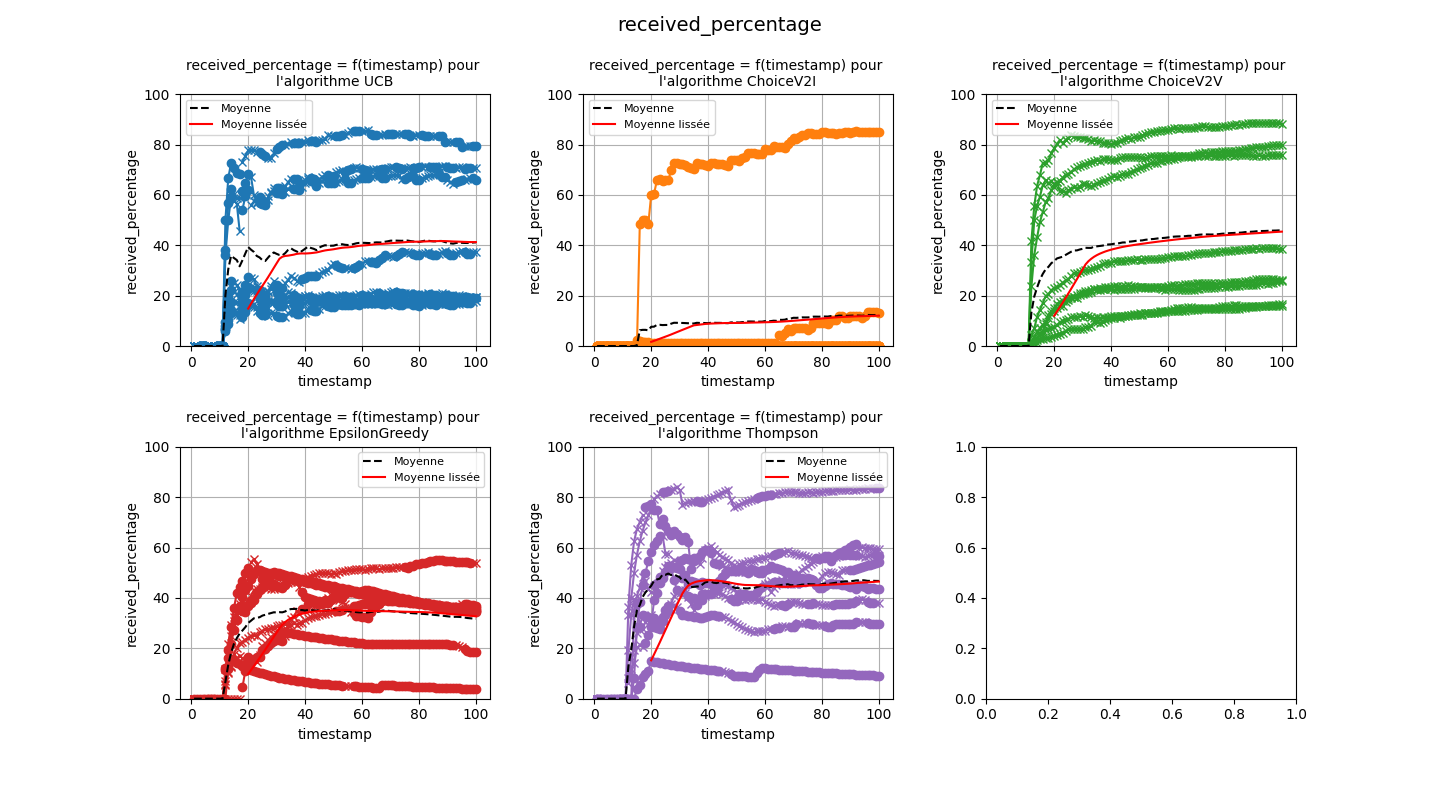
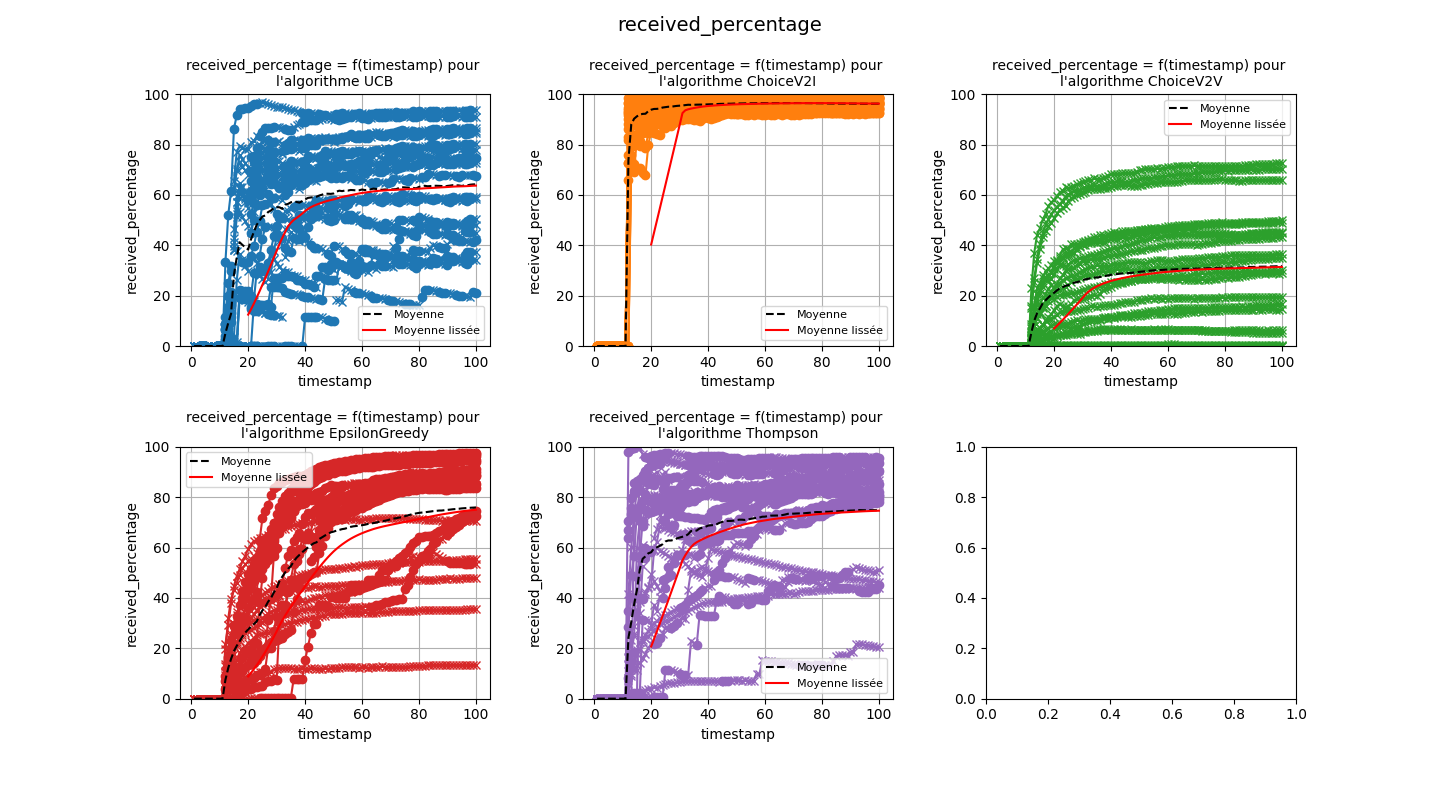
les graphes sont jolis

diff --git a/Simu.py b/Simu.py
@@ -27,10 +27,10 @@ V2V_BASE_SUCCES_PROBABILITY = 0.4
 V2I_BASE_SUCCES_PROBABILITY = 0.9
 
 # Nombre de voiture dans la simulation
-NUMBER_OF_USERS = 400
+NUMBER_OF_USERS = 20
 
 # Nombre d'infrastructure dans la simulation
-NUMBER_OF_INFRASTRUCTURES = 30
+NUMBER_OF_INFRASTRUCTURES = 4
 
 #Types de MAB a utiliser 
 MAB_LIST = [MAB_UCB.UCB,
@@ -60,7 +60,7 @@ for i in range(NUMBER_OF_USERS):
         range=20, 
         priority=0, 
         buffer_capacity=5, 
-        treatment_speed=0.1, 
+        treatment_speed=0.01, 
         mouvement_speed=random.uniform(0, 1), 
         algorithm=Utils.Algorithm.V2I, 
         mab=MAB_LIST[i%len(MAB_LIST)](
@@ -84,7 +84,7 @@ for i in range (NUMBER_OF_INFRASTRUCTURES):
                     range=50, 
                     priority=0, 
                     buffer_capacity=30, 
-                    treatment_speed=10, 
+                    treatment_speed=1, 
                     timeline=timeline,
                     users=users,
                     infrastructures=infrastructures,

diff --git a/Exploit_simulation.py b/Exploit_simulation.py
@@ -54,9 +54,13 @@ def show_graph(users:[Entity.User]):
             ax.set_ylabel(metric)
             ax.grid(True)
             ax.set_ylim(bottom=0)
-            if metric == "received_percentage":
-                ax.set_ylim(top=100)
-
+            match (metric):
+                case ("latency"):
+                    ax.set_ylim(top=15)
+                case ("received_percentage"):
+                    ax.set_ylim(top=100)
+                case("jitter"):
+                    ax.set_ylim(top=0.8)
             color = algo_colors[algo_name]
 
             # Tracé des courbes utilisateurs
